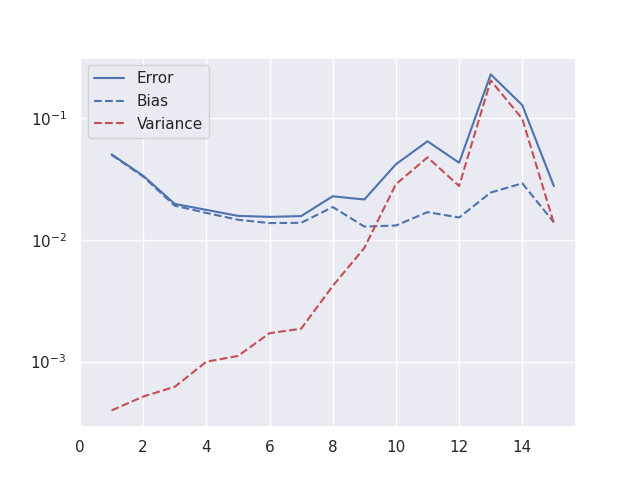
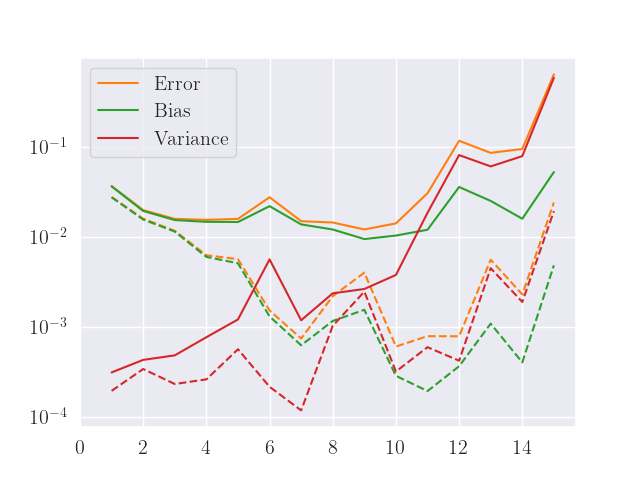
Add plot for both clean and noisy model

diff --git a/code/part_e.py b/code/part_e.py
@@ -90,7 +90,7 @@ def beta_ridge(X, y, lamb):
     return (np.linalg.pinv(X.T @ X + lamb * np.identity(len(X[0]))) @ X.T @ y)
 
 
-def franke_function(x, y, noise=False, noise_factor=0.1):
+def franke_function(x, y, noise=False):
     t1 = 0.75 * np.exp(-(0.25 * (9*x - 2)**2) - (0.25 * (9*y - 2)**2))
     t2 = 0.75 * np.exp(-((9*x + 1)**2 / 49.0) - (0.1 * (9*y + 1)))
     t3 = 0.5 * np.exp(-(0.25 * (9*x - 7)**2) - (0.25 * (9*y - 3)**2))
@@ -98,10 +98,11 @@ def franke_function(x, y, noise=False, noise_factor=0.1):
     result = t1 + t2 + t3 + t4
 
     if noise == True:
-        m, n = x.shape
-        result += noise_factor * np.random.normal(0.0, 1.0, m*n).reshape(m, n)
+        noise_val = np.random.normal(0, 0.1, len(x)*len(y)) 
+        noise_val = noise_val.reshape(len(x),len(y))
+        result += noise_val
 
-    return result.reshape(-1, 1)
+    return result
 
 
 def d_matrix(x, y, degree):
@@ -365,47 +366,63 @@ if __name__ == '__main__':
     # Franke
     x.ravel()
     y.ravel()
-    z = Franke_function(x, y, noise_factor=1)
+    z = Franke_function(x, y, noise_factor=0)
+    z_noise = Franke_function(x, y, noise_factor=1)
 
-    plot_3d(x, y, z)
+    # plot_3d(x, y, z)
 
     # Real data
     # x, y, z = load_real_data(n)
 
     # degrees = np.zeros(max_degree)
     # error = np.zeros(max_degree)
-    # error_train = np.zeros(max_degree)
-    # error_test = np.zeros(max_degree)
-    # bias = np.zeros(max_degree)
-    # variance = np.zeros(max_degree)
+    error_train = np.zeros(max_degree)
+    error_test = np.zeros(max_degree)
+    bias = np.zeros(max_degree)
+    variance = np.zeros(max_degree)
+
+    error_train_noise = np.zeros(max_degree)
+    error_test_noise = np.zeros(max_degree)
+    bias_noise = np.zeros(max_degree)
+    variance_noise = np.zeros(max_degree)
 
 
-    # for i in range(max_degree):
-    #     error_train[i], error_test[i], bias[i], variance[i] = bootstrap_ols(x, y, z, i+1, 100)
+    for i in range(max_degree):
+        error_train[i], error_test[i], bias[i], variance[i] = bootstrap_ols(x, y, z, i+1, 100)
+        error_train_noise[i], error_test_noise[i], bias_noise[i], variance_noise[i] = bootstrap_ols(x, y, z_noise, i+1, 100)
         # error_train[i], error_test[i], bias[i], variance[i] = bootstrap(x, y, z, i+1, 100)
         # error_train[i], error_test[i], bias[i], variance[i] = bootstrap_reshape(x, y, z, i+1, 100)
         # error[i], error_train[i], error_test[i], bias[i], variance[i] = bootstrap_sklearn(x, y, z, i+1, 100, intercept=False)
 
     # error_sum = bias + variance
-    # colors = sns.color_palette("husl", as_cmap=True)
-    # fig1, ax1 = plt.subplots()
-    # fig2, ax2 = plt.subplots()
+    colors = sns.color_palette("tab10", n_colors=6)
+    fig1, ax1 = plt.subplots()
+    fig2, ax2 = plt.subplots()
 
-    # ax1.plot(degrees, error_train, label='Train error', color=colors[0])
-    # ax1.plot(degrees, error_test, label='Test error', color=colors[1])
+    # Franke function without noise
+    ax1.plot(degrees, error_train, color=colors[0], linestyle='--')
+    ax1.plot(degrees, error_test, color=colors[1], linestyle='--')
+    # Franke function with noise
+    ax1.plot(degrees, error_train_noise, label='Train', color=colors[0])
+    ax1.plot(degrees, error_test_noise, label='Test', color=colors[1])
 
-    # ax2.plot(degrees, error_test, label='Error', color=colors[1])
-    # ax2.plot(degrees, bias, label='Bias', color=colors[2])
-    # ax2.plot(degrees, variance, label='Variance', color=colors[3])
-    # # ax.set_xscale('log')
-    # ax1.set_yscale('log')
-    # ax1.set_xticks(np.arange(0, max_degree+1, 2, dtype=np.int32))
-    # ax1.legend(loc='lower right')
-    # fig1.savefig("../LaTeX/Images/bootstrap_error.png")
-    # ax2.set_yscale('log')
-    # ax2.set_xticks(np.arange(0, max_degree+1, 2, dtype=np.int32))
-    # ax2.legend(loc='lower right')
-    # fig2.savefig("../LaTeX/Images/bias_variance.png")
+    # Franke function without noise
+    ax2.plot(degrees, error_test, color=colors[1], linestyle='--')
+    ax2.plot(degrees, bias, color=colors[2], linestyle='--')
+    ax2.plot(degrees, variance, color=colors[3], linestyle='--')
+
+    ax2.plot(degrees, error_test_noise, label='Error', color=colors[1])
+    ax2.plot(degrees, bias_noise, label='Bias', color=colors[2])
+    ax2.plot(degrees, variance_noise, label='Variance', color=colors[3])
+    # ax.set_xscale('log')
+    ax1.set_yscale('log')
+    ax1.set_xticks(np.arange(0, max_degree+1, 2, dtype=np.int32))
+    ax1.legend(loc='upper left')
+    fig1.savefig("../LaTeX/Images/bootstrap_error.png")
+    ax2.set_yscale('log')
+    ax2.set_xticks(np.arange(0, max_degree+1, 2, dtype=np.int32))
+    ax2.legend(loc='upper left')
+    fig2.savefig("../LaTeX/Images/bias_variance.png")
 
     # lambdas = np.logspace(-8, 0, 9)
     # l = len(lambdas)
